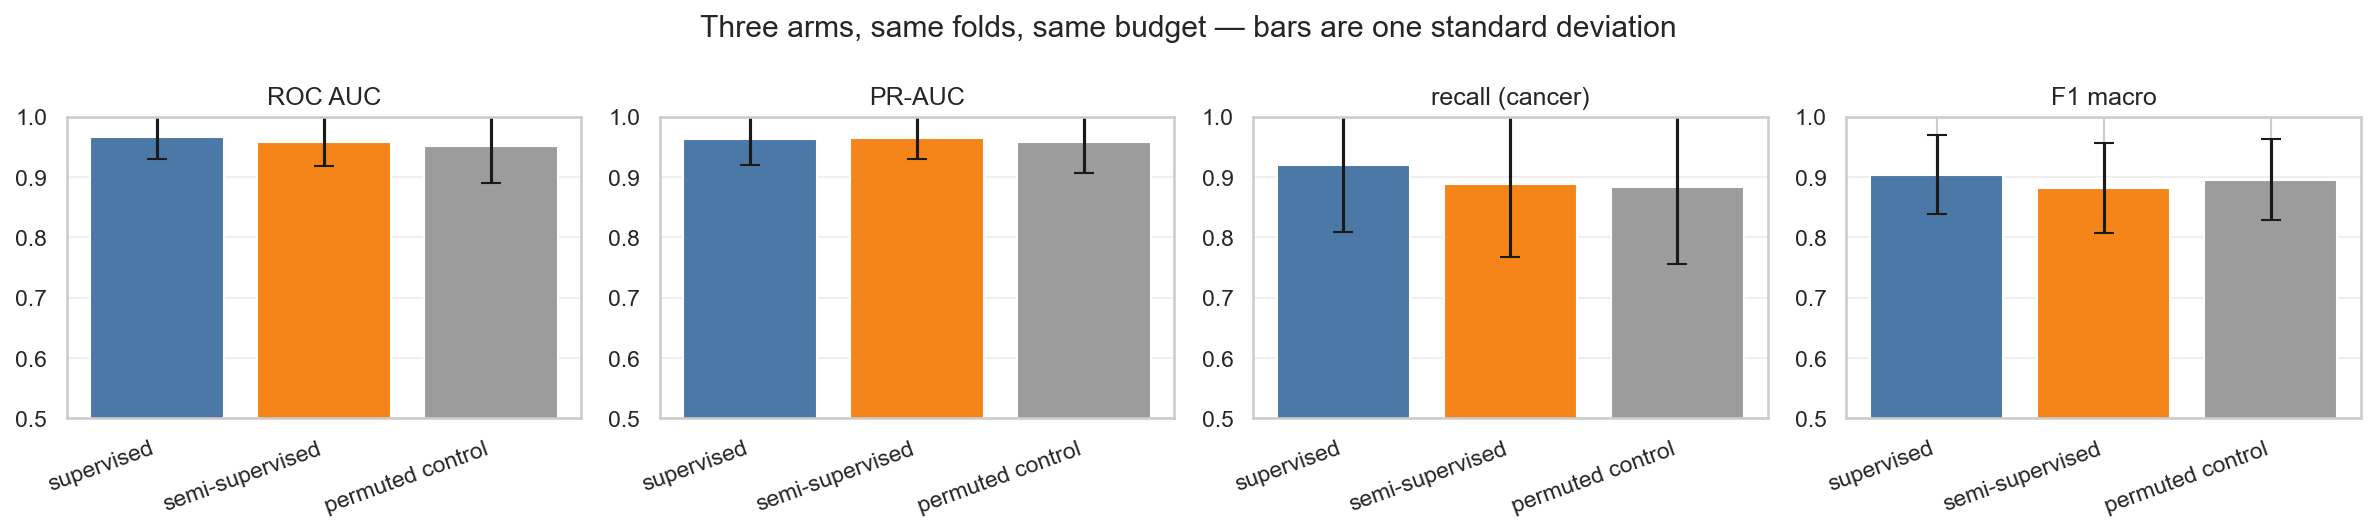
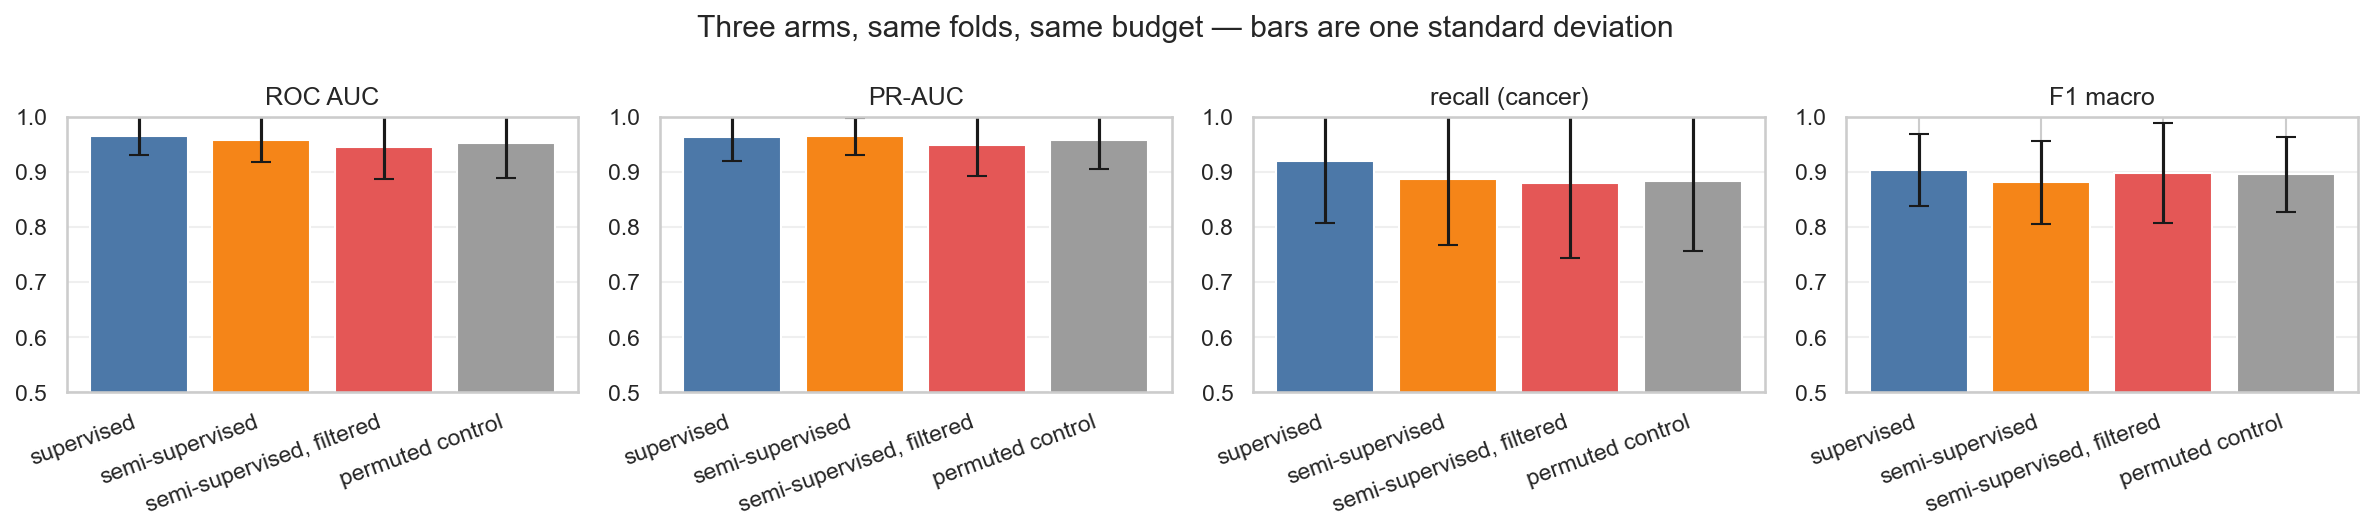
feat(figures): draw the calibration and the efficiency curve

diff --git a/scripts/build_figures.py b/scripts/build_figures.py
@@ -22,20 +22,30 @@ sys.stdout.reconfigure(encoding="utf-8", errors="replace")
 import matplotlib.pyplot as plt
 import pandas as pd
 
-from mri_semisupervised.config import EXPERIMENTS_DIR, FIGURES_DIR, ensure_dirs
+from mri_semisupervised.config import (
+    EXPERIMENTS_DIR,
+    FIGURES_DIR,
+    MANIFEST_PATH,
+    ensure_dirs,
+)
+from mri_semisupervised.protocol.calibration import summarise_calibration
+from mri_semisupervised.protocol.errors import per_image_errors, pool_overlap_rates
 from mri_semisupervised.protocol.uncertainty import paired_difference
 from mri_semisupervised.viz.plots import plot_roc_compare
 
 ARM_LABEL = {
     "supervised": "supervised",
     "semi_supervised": "semi-supervised",
+    "semi_supervised_confident": "semi-supervised, filtered",
     "permuted_control": "permuted control",
 }
 ARM_COLOUR = {
     "supervised": "#4c78a8",
     "semi_supervised": "#f58518",
+    "semi_supervised_confident": "#e45756",
     "permuted_control": "#9c9c9c",
 }
+BUDGETS = (10, 20, 40)
 
 
 def _load(mode: str) -> tuple[pd.DataFrame, pd.DataFrame, dict] | None:
@@ -176,6 +186,161 @@ def figure_leak_price(corrected: pd.DataFrame, legacy: pd.DataFrame, path: Path)
     print(f"[ok] {path.name}")
 
 
+def figure_calibration(predictions: pd.DataFrame, path: Path) -> None:
+    """Reliability curves: what a score of 0.4 is actually worth.
+
+    ROC AUC cannot see this. A model whose ranking is perfect and whose scale is squashed
+    scores 1.0 and still tells a clinician the wrong number.
+    """
+    summary, curves = summarise_calibration(predictions, n_bins=10)
+    figure, axis = plt.subplots(figsize=(6.5, 6))
+    axis.plot([0, 1], [0, 1], color="#bbbbbb", linestyle="--", linewidth=1, label="perfect")
+
+    for arm, curve in curves.items():
+        row = summary[summary["arm"] == arm].iloc[0]
+        axis.plot(
+            curve["mean_score"],
+            curve["observed"],
+            marker="o",
+            markersize=4,
+            color=ARM_COLOUR.get(arm, "#333333"),
+            label=f"{ARM_LABEL.get(arm, arm)} — Brier {row['brier']:.3f}, ECE {row['ece']:.3f}",
+        )
+
+    axis.set_xlabel("mean predicted probability (equal-population bins)")
+    axis.set_ylabel("observed cancer rate")
+    axis.set_title("Calibration, pooled out of fold")
+    axis.set_xlim(0, 1)
+    axis.set_ylim(0, 1)
+    axis.legend(fontsize=8, loc="upper left")
+    figure.savefig(path, dpi=150, bbox_inches="tight")
+    plt.close(figure)
+    print(f"[ok] {path.name}")
+
+
+def figure_label_efficiency(path: Path) -> pd.DataFrame | None:
+    """Two panels; the second is the one that answers the question.
+
+    The top panel shows the task getting easier as labels are added, which is expected and
+    says nothing about semi-supervision. Only the paired difference against the permuted
+    control does, and it gets its own axis so it cannot be read off the first by eye.
+    """
+    points = []
+    for budget in BUDGETS:
+        loaded = _load(f"budget-{budget}")
+        if loaded is None:
+            continue
+        points.append((budget, loaded[0]))
+    full = _load("corrected")
+    if full is not None:
+        points.append((int(full[2]["protocol"].get("label_budget") or 59), full[0]))
+    if len(points) < 2:
+        print("[warn] not enough budgets to draw the curve")
+        return None
+
+    rows = []
+    for budget, per_fold in sorted(points):
+        pivot = per_fold.pivot(index="fold", columns="arm", values="roc_auc")
+        for arm in pivot.columns:
+            rows.append(
+                {
+                    "budget": budget,
+                    "arm": arm,
+                    "mean": float(pivot[arm].mean()),
+                    "sd": float(pivot[arm].std()),
+                }
+            )
+        if {"semi_supervised", "permuted_control"} <= set(pivot.columns):
+            out = paired_difference(
+                pivot["semi_supervised"].to_numpy(), pivot["permuted_control"].to_numpy()
+            )
+            rows.append(
+                {
+                    "budget": budget,
+                    "arm": "difference",
+                    "mean": out["mean_difference"],
+                    "ci_low": out["ci_low"],
+                    "ci_high": out["ci_high"],
+                    "p_value": out["p_value"],
+                }
+            )
+    frame = pd.DataFrame(rows)
+
+    figure, (top, bottom) = plt.subplots(
+        2, 1, figsize=(7, 7.5), sharex=True, gridspec_kw={"height_ratios": [2, 1]}
+    )
+    for arm in ("supervised", "semi_supervised", "permuted_control"):
+        part = frame[frame["arm"] == arm].sort_values("budget")
+        if part.empty:
+            continue
+        top.errorbar(
+            part["budget"],
+            part["mean"],
+            yerr=part["sd"],
+            marker="o",
+            capsize=3,
+            color=ARM_COLOUR.get(arm, "#333333"),
+            label=ARM_LABEL.get(arm, arm),
+        )
+    top.set_ylabel("ROC AUC")
+    top.set_title("Label efficiency: the task, and then the question")
+    top.legend(fontsize=9)
+
+    diff = frame[frame["arm"] == "difference"].sort_values("budget")
+    bottom.axhline(0.0, color="#bbbbbb", linestyle="--", linewidth=1)
+    bottom.errorbar(
+        diff["budget"],
+        diff["mean"],
+        yerr=[diff["mean"] - diff["ci_low"], diff["ci_high"] - diff["mean"]],
+        marker="o",
+        capsize=3,
+        color="#f58518",
+    )
+    bottom.set_xlabel("training labels per fold")
+    bottom.set_ylabel("semi-supervised minus control")
+    figure.savefig(path, dpi=150, bbox_inches="tight")
+    plt.close(figure)
+    print(f"[ok] {path.name}")
+    return frame
+
+
+def figure_hardest_images(errors: pd.DataFrame, manifest: pd.DataFrame, path: Path) -> None:
+    """The twelve images the supervised arm misses most, with what it said about them.
+
+    An aggregate rate says a model is wrong 7% of the time. It does not say the misses are
+    the same handful of scans every fold, which on ninety-nine images is checkable by eye.
+    """
+    from PIL import Image
+
+    worst = (
+        errors[errors["arm"] == "supervised"]
+        .sort_values(["wrong_share", "n_wrong"], ascending=False)
+        .head(12)
+    )
+    paths = dict(zip(manifest["image_id"], manifest["path"], strict=True))
+
+    figure, axes = plt.subplots(3, 4, figsize=(11, 9))
+    for axis, row in zip(axes.ravel(), worst.itertuples(), strict=False):
+        source = paths.get(row.image_id)
+        if source and Path(source).exists():
+            with Image.open(source) as image:
+                axis.imshow(image.convert("L"), cmap="gray")
+        truth = "cancer" if row.y_true == 1 else "normal"
+        pool = ", also in pool" if row.also_in_pool else ""
+        axis.set_title(
+            f"{truth}, score {row.mean_score:.2f}\nmissed {row.n_wrong}/{row.n_folds}{pool}",
+            fontsize=8,
+        )
+        axis.axis("off")
+    for axis in axes.ravel()[len(worst) :]:
+        axis.axis("off")
+
+    figure.suptitle("What the supervised arm gets wrong, and how confidently", fontsize=11)
+    figure.savefig(path, dpi=150, bbox_inches="tight")
+    plt.close(figure)
+    print(f"[ok] {path.name}")
+
+
 def main() -> None:
     ensure_dirs()
     FIGURES_DIR.mkdir(parents=True, exist_ok=True)
@@ -191,9 +356,27 @@ def main() -> None:
     figure_arms(per_fold, FIGURES_DIR / "arms_comparison.png")
     figure_paired(per_fold, FIGURES_DIR / "paired_differences.png")
 
+    figure_calibration(predictions, FIGURES_DIR / "calibration.png")
+
     legacy_loaded = _load("legacy")
     if legacy_loaded is not None:
         figure_leak_price(per_fold, legacy_loaded[0], FIGURES_DIR / "leak_price.png")
+
+    manifest_path = Path(MANIFEST_PATH)
+    if manifest_path.exists():
+        manifest = pd.read_parquet(manifest_path)
+        errors = per_image_errors(predictions, per_fold, manifest)
+        target = EXPERIMENTS_DIR / "corrected" / "per_image_errors.parquet"
+        errors.to_parquet(target, index=False)
+        print(f"[ok] {target.name}")
+        print(pool_overlap_rates(errors).round(3).to_string(index=False))
+        figure_hardest_images(errors, manifest, FIGURES_DIR / "hardest_images.png")
+
+    curve = figure_label_efficiency(FIGURES_DIR / "label_efficiency.png")
+    if curve is not None:
+        target = EXPERIMENTS_DIR / "label_efficiency.parquet"
+        curve.to_parquet(target, index=False)
+        print(f"[ok] {target.name}")
 
 
 if __name__ == "__main__":
